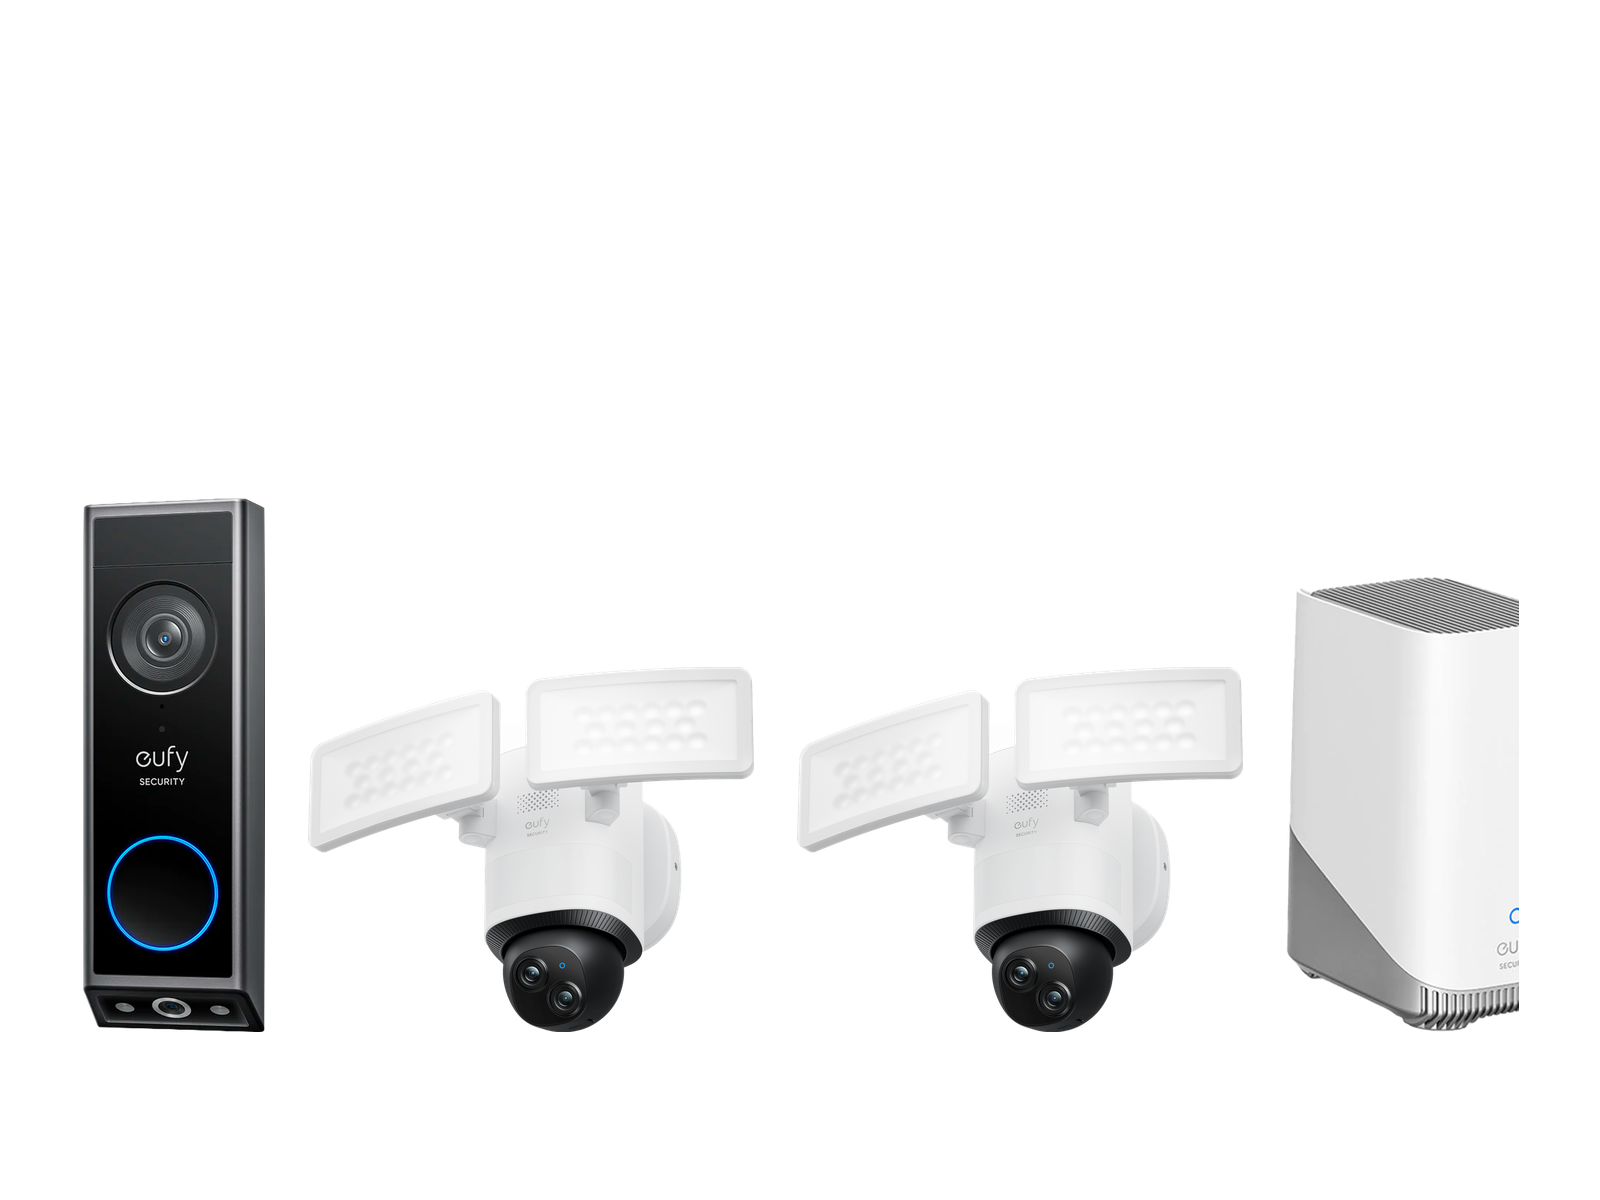
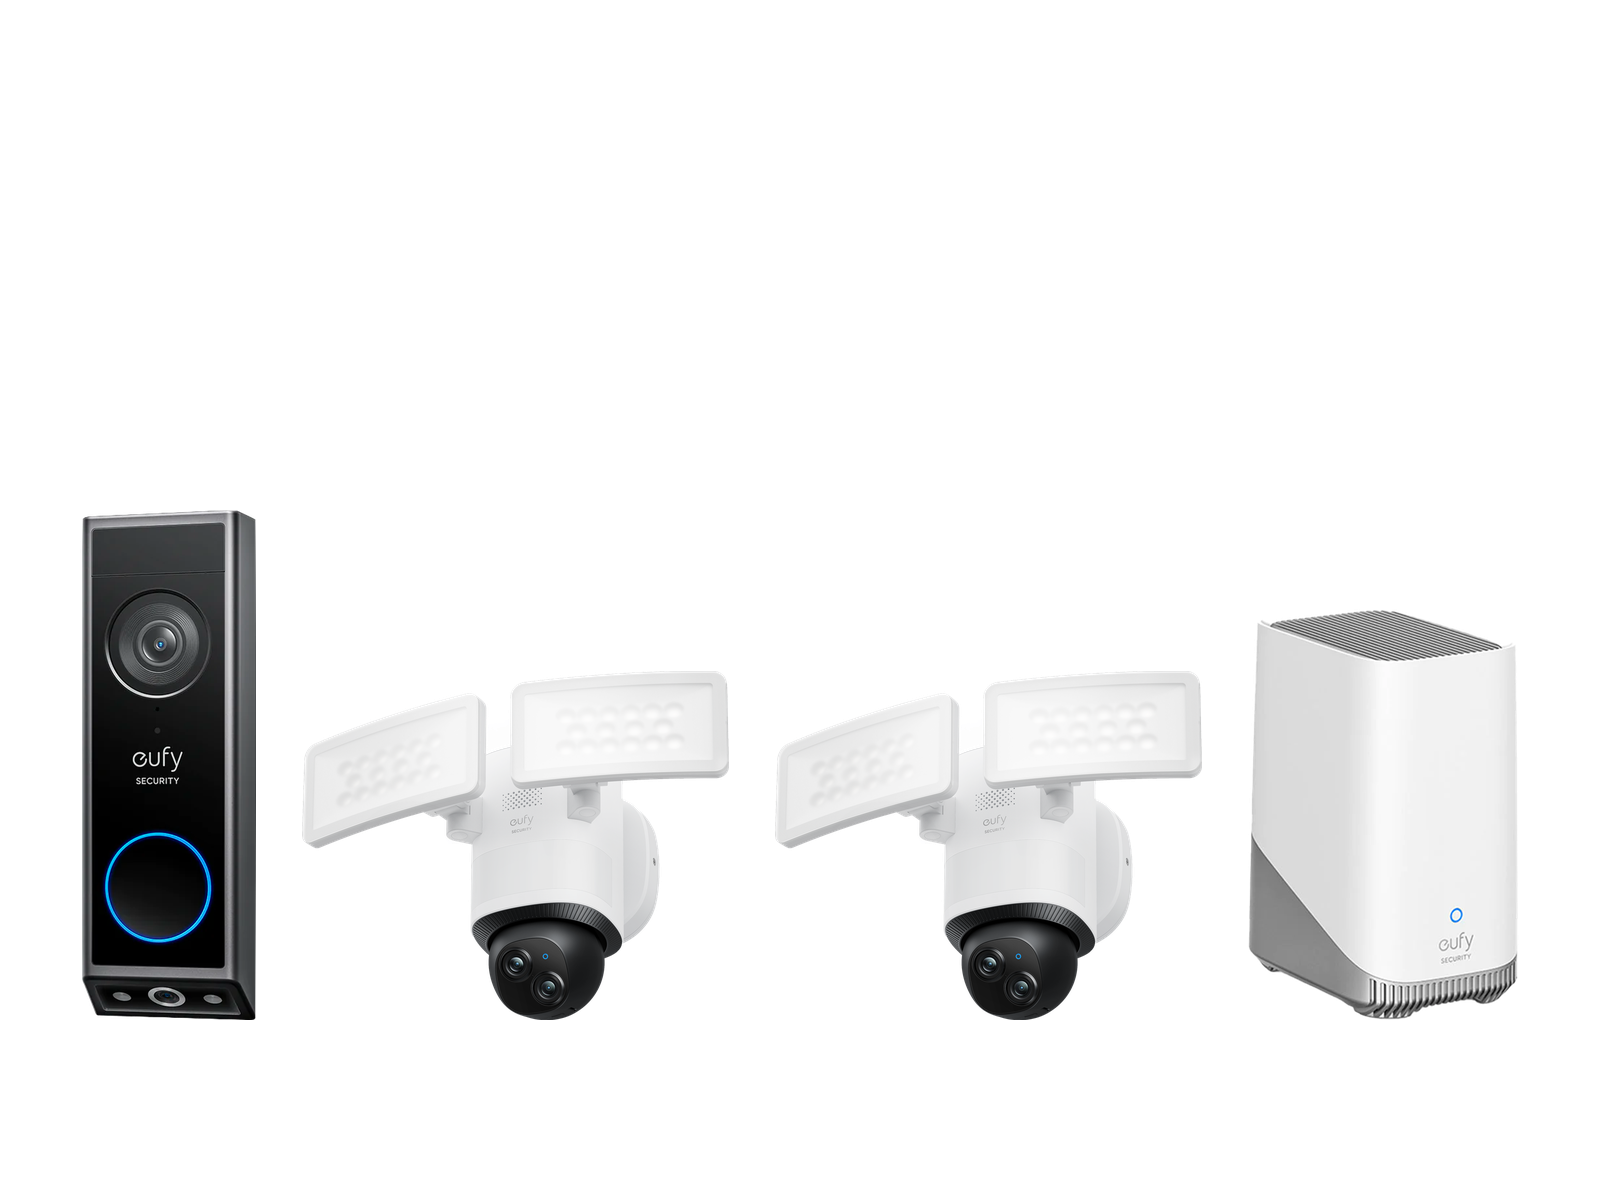
feat(eufy): fix HomeBase cutout (tower was clipped) + Eufy SEO and internal links
- Bundle composites: the S380 HomeBase cutout was cropped at x=435 but the
  tower actually ends at x=527, so its right edge was cut off. Re-cropped the
  full tower and rebuilt all 3 bundle images (driveway, whole-home, eldercare).
- Eufy internal links: the Ring-vs-Eufy, Tapo-vs-Eufy and home-security blogs
  now link to /services/eufy and the Eufy product pages ("we now supply and fit
  Eufy"). Previously no blog linked into the Eufy flow.
- New FAQ entry "Do you supply and install Eufy?" (adds to FAQPage schema).
- Homepage meta description + keywords now include Eufy supplied-and-installed.

diff --git a/src/app/blog/ring-vs-eufy-doorbell-ireland/page.tsx b/src/app/blog/ring-vs-eufy-doorbell-ireland/page.tsx
@@ -220,6 +220,15 @@ export default function Post() {
           footage stored at home rather than in the cloud, and refuse to pay any monthly fee at all.
         </p>
         <p>
+          One thing that has changed recently: we now supply and fit Eufy ourselves, not just install
+          kit you bought elsewhere. If you want the dual-camera{" "}
+          <Link href="/services/eufy-video-doorbell-e340" className="text-brand-500 hover:underline">Eufy Video Doorbell E340</Link>{" "}
+          or a full{" "}
+          <Link href="/services/eufy" className="text-brand-500 hover:underline">Eufy system</Link>{" "}
+          supplied, installed and configured in one visit, that is a single job with us now, with the
+          footage stored locally and no monthly fee.
+        </p>
+        <p>
           And if you&apos;re still not sure, that&apos;s exactly what the{" "}
           <Link href="/services/free-consultation" className="text-brand-500 hover:underline">
             complimentary consultation

diff --git a/src/app/layout.tsx b/src/app/layout.tsx
@@ -30,9 +30,9 @@ export const metadata: Metadata = {
   // Homepage title only; each page below sets its own complete title.
   title: "Smart Space | Dublin's #1 Ring Installer",
   description:
-    "Dublin's only 5-star Ring installer. Professional Ring doorbell and security camera installation across Dublin and Leinster. 5,000+ installations, SME Winner 2025.",
+    "Dublin's only 5-star Ring installer. Professional Ring doorbell and security camera installation across Dublin and Leinster, and now Eufy supplied and installed with no monthly subscription. 5,000+ installations, SME Winner 2025.",
   keywords:
-    "Ring installer Dublin, Ring doorbell installation Dublin, Ring camera Dublin, Ring installer Leinster, smart home Dublin, security camera installation Ireland",
+    "Ring installer Dublin, Ring doorbell installation Dublin, Ring camera Dublin, Ring installer Leinster, Eufy installer Dublin, Eufy supplied and installed Ireland, smart home Dublin, security camera installation Ireland",
   alternates: { canonical: "/" },
   openGraph: {
     type: "website",
@@ -40,7 +40,7 @@ export const metadata: Metadata = {
     siteName: "Smart Space",
     title: "Smart Space | Dublin's #1 Ring Installer",
     description:
-      "Professional Ring doorbell and security camera installation across Dublin and Leinster. 5,000+ installations, SME Winner 2025.",
+      "Professional Ring doorbell and security camera installation across Dublin and Leinster, plus Eufy supplied and installed. 5,000+ installations, SME Winner 2025.",
     locale: "en_IE",
     images: [
       {

diff --git a/src/app/blog/home-security-cameras-ireland-buyers-guide/page.tsx b/src/app/blog/home-security-cameras-ireland-buyers-guide/page.tsx
@@ -239,7 +239,9 @@ export default function Post() {
           <Link href="/services/free-consultation">complimentary consultation</Link>. No
           hard sell, we&apos;ll recommend the right camera count and brands for your
           needs, and you can decide whether you want us to install or whether you&apos;d
-          rather do it yourself.
+          rather do it yourself. If you want Eufy specifically, we now supply and fit the full{" "}
+          <Link href="/services/eufy" className="text-brand-500 hover:underline">Eufy range</Link>{" "}
+          too, doorbell, cameras and bundles, footage kept local and no monthly fee.
         </p>
       </BlogLayout>
     </>

diff --git a/src/app/blog/tapo-vs-eufy-vs-ring-budget-doorbell-ireland/page.tsx b/src/app/blog/tapo-vs-eufy-vs-ring-budget-doorbell-ireland/page.tsx
@@ -201,7 +201,9 @@ export default function Post() {
             complimentary consultation
           </Link>{" "}
           is for. We charge the same install fee regardless of which brand you pick, so we&apos;ve
-          no reason to push you up the price chart.
+          no reason to push you up the price chart. And if you settle on Eufy, we now supply and fit
+          it outright too, see the{" "}
+          <Link href="/services/eufy" className="text-brand-500 hover:underline">Eufy range</Link>.
         </p>
       </BlogLayout>
     </>

diff --git a/src/app/faq/faq-data.ts b/src/app/faq/faq-data.ts
@@ -28,6 +28,10 @@ export const FAQS = [
     a: "Yes. We're based in Dublin but cover all 12 counties of Leinster, Dublin, Wicklow, Kildare, Meath, Louth, Wexford, Carlow, Kilkenny, Laois, Offaly, Westmeath and Longford.",
   },
   {
+    q: "Do you supply and install Eufy?",
+    a: "Yes. As well as installing Eufy kit you bought yourself, we now supply and fit the full Eufy range, the Video Doorbell E340 from €359, the Floodlight Cam E340 from €369, and home bundles, all with footage stored locally and no monthly subscription. Supplied and professionally installed across Dublin and Leinster.",
+  },
+  {
     q: "How much does a Ring install cost?",
     a: "Installation-only starts at €139. A single Ring Video Doorbell (supplied and installed) starts at €329. An External Camera (supplied and installed) starts at €299. Bundles start at €509. See our Services page for full pricing.",
   },